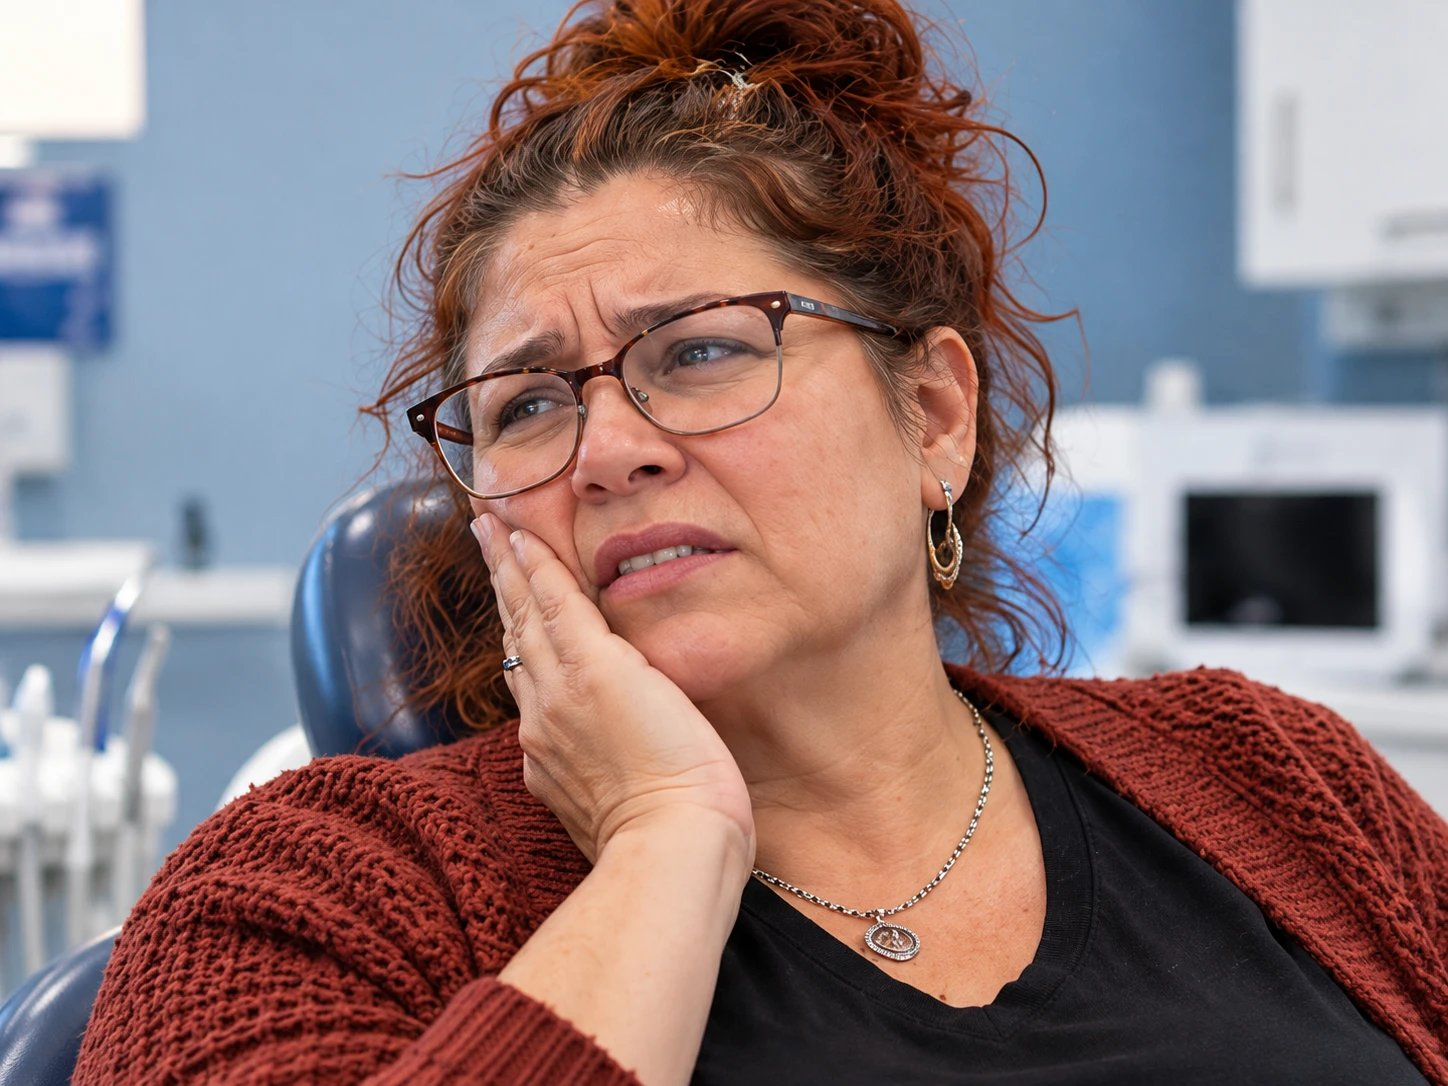
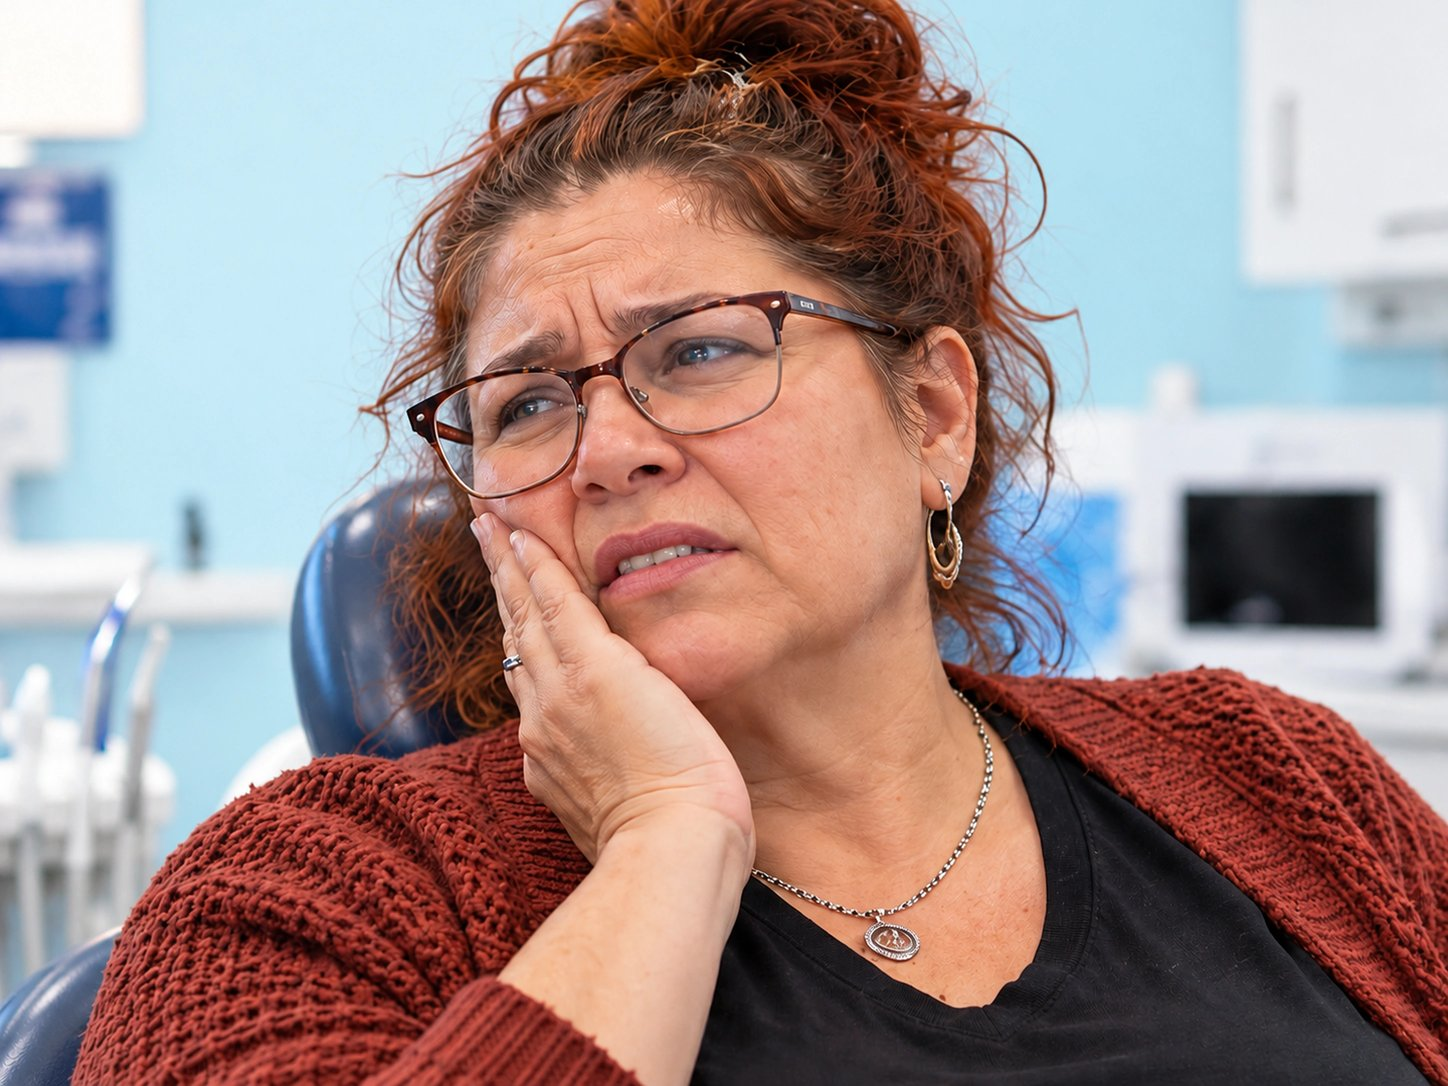
fix: sharper service photos, no seam in the tabs, one-line tab headlines
- Five service photos replaced with the practice's higher-resolution
  versions (restorative card and page, emergency card and page,
  extractions page).
- The tab panel takes the fact side's cyan and clips the photo zoom, so
  no hairline shows between the two halves.
- Every tab headline sits on one line along the bottom; the smile
  makeover and missing teeth photos are re-cropped so it clears the faces.

diff --git a/src/components/sections/problems.module.css b/src/components/sections/problems.module.css
@@ -14,9 +14,11 @@
 .tab:hover { border-bottom-color: var(--color-ink); }
 .tab[aria-selected='true'] { color: var(--color-accent-ink); border-bottom-color: var(--color-accent); }
 
-.panel { display: grid; grid-template-columns: minmax(0, 1fr) minmax(0, 1fr); min-height: 520px; overflow: hidden; border-radius: var(--radius-card); }
+/* The panel shares the fact side's cyan, so the tilted card never shows a hairline of page background
+   between the two halves; the photo's scroll zoom is clipped to its own half. */
+.panel { display: grid; grid-template-columns: minmax(0, 1fr) minmax(0, 1fr); min-height: 520px; overflow: hidden; border-radius: var(--radius-card); background: var(--color-tint); }
 .panel[hidden] { display: none; }
-.media { position: relative; min-height: 360px; background: #2a2a2a; }
+.media { position: relative; min-height: 360px; overflow: hidden; background: var(--color-tint); }
 .media img { object-fit: cover; }
 .media::after { content: ''; position: absolute; inset: 0; background: linear-gradient(180deg, rgb(0 0 0 / 0.6) 0%, rgb(0 0 0 / 0.1) 60%); }
 .mediaTitle { position: absolute; z-index: 1; left: clamp(20px, 3vw, 36px); right: 20px; top: clamp(20px, 3vw, 36px); font-size: clamp(3rem, 6vw, 5.5rem); line-height: 0.88; color: #ffffff; }
@@ -24,7 +26,6 @@
    clears the faces in the photo. */
 .mediaBottom::after { background: linear-gradient(0deg, rgb(0 0 0 / 0.65) 0%, rgb(0 0 0 / 0.1) 50%); }
 .mediaBottom .mediaTitle { top: auto; bottom: clamp(20px, 3vw, 36px); right: auto; font-size: clamp(1.9rem, 4.4vw, 4rem); }
-.mediaNarrow .mediaTitle { max-width: 3.6em; font-size: clamp(1.9rem, 4.4vw, 4rem); }
 
 .fact { display: grid; align-content: center; justify-items: start; gap: 16px; padding: clamp(28px, 4vw, 48px); background: var(--color-tint); color: var(--color-ink); }
 .big {

diff --git a/src/components/sections/ProblemTabs.tsx b/src/components/sections/ProblemTabs.tsx
@@ -17,10 +17,10 @@ export interface Problem {
   links: readonly { href: string; label: string }[];
   photo: StaticImageData;
   /**
-   * Where the headline sits on the photo, chosen to keep it off the faces: top or bottom, on one line or
-   * (Narrow) in short lines kept to the left.
+   * Where the headline sits on the photo, chosen to keep it off the faces: the top, or one line along
+   * the bottom.
    */
-  titlePlacement: 'top' | 'topNarrow' | 'bottom' | 'bottomNarrow';
+  titlePlacement: 'top' | 'bottom';
 }
 
 interface ProblemTabsProps {
@@ -79,7 +79,7 @@ export function ProblemTabs({ problems, label }: ProblemTabsProps) {
     </div>
     {problems.map((problem, index) => <div key={problem.id} role="tabpanel" id={`problem-panel-${problem.id}`}
       aria-labelledby={`problem-tab-${problem.id}`} hidden={index !== active} className={styles.panel} data-tilt="2" ref={element => { panels.current[index] = element; }}>
-      <div className={[styles.media, problem.titlePlacement.startsWith('bottom') && styles.mediaBottom, problem.titlePlacement.endsWith('Narrow') && styles.mediaNarrow].filter(Boolean).join(' ')} data-media="">
+      <div className={[styles.media, problem.titlePlacement === 'bottom' && styles.mediaBottom].filter(Boolean).join(' ')} data-media="">
         <Image src={problem.photo} alt="" fill sizes="(max-width: 899px) 100vw, 50vw" placeholder="blur" data-scroll-zoom="" />
         <h3 className={styles.mediaTitle}>{problem.headline}</h3>
       </div>

diff --git a/src/components/sections/Problems.tsx b/src/components/sections/Problems.tsx
@@ -43,9 +43,8 @@ export async function Problems() {
     return service;
   }
 
-  // Headlines stay off the faces (practice request, 21 October 2026): at the bottom where faces fill the top,
-  // and in short lines on the left where the empty space is beside the face.
-  const titlePlacements: Partial<Record<ServiceId, Problem['titlePlacement']>> = { emergency: 'bottom', implants: 'topNarrow', 'clear-aligners-braces': 'bottom', 'cleanings-checkups': 'bottom', cosmetic: 'bottomNarrow' };
+  // Headlines stay off the faces (practice request, 21 October 2026): one line along the bottom.
+  const titlePlacements: Partial<Record<ServiceId, Problem['titlePlacement']>> = { emergency: 'bottom', implants: 'bottom', 'clear-aligners-braces': 'bottom', 'cleanings-checkups': 'bottom', cosmetic: 'bottom' };
 
   function problem(id: ServiceId, text: ProblemText, photo: Problem['photo'], extraLinks: readonly ExtraLink[] = []): Problem {
     const service = findService(id);
